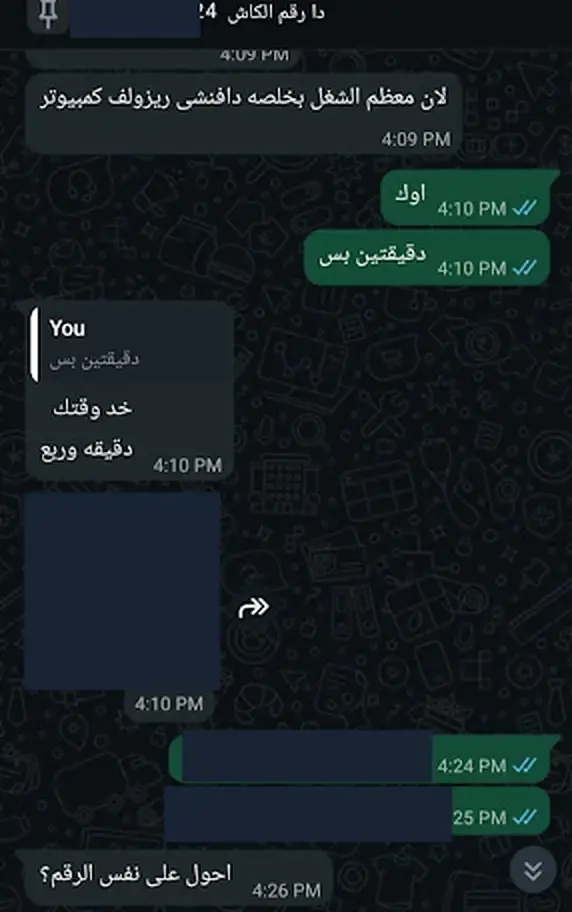
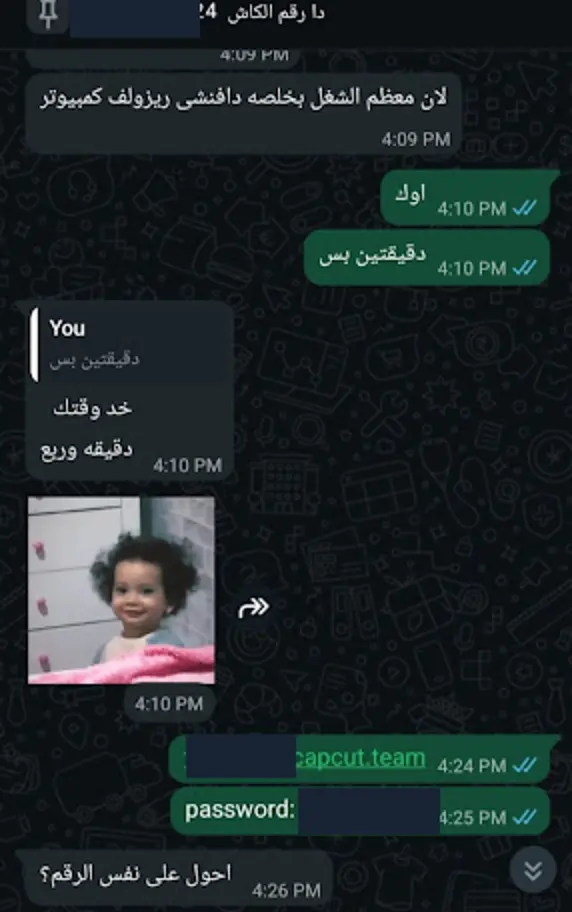
Refresh customer gallery with navy styling and reveal ordinary screenshot content

diff --git a/customer-stories.css b/customer-stories.css
@@ -1,1 +1,1 @@
-.customer-stories{padding:68px max(22px,calc((100% - 1132px)/2));background:linear-gradient(180deg,#f8faff,#edf3ff);border-block:1px solid #e3eaf5;overflow:hidden}.customer-stories .section-head{display:grid;grid-template-columns:88px minmax(0,1fr) auto;align-items:center;gap:22px;margin-bottom:18px}.stories-cover{width:88px;height:88px;object-fit:cover;border-radius:20px;box-shadow:0 8px 24px #0d234b20}.customer-stories h2{font-size:30px;line-height:1.5;margin:5px 0 8px;letter-spacing:-.6px}.customer-stories .eyebrow{font-size:11px;color:#245bd3;letter-spacing:.5px}.customer-stories .section-sub{font-size:13px;line-height:1.9;color:#69778d;max-width:620px;margin:0}.stories-controls{display:flex;gap:8px;align-items:center}.stories-controls button,.story-dialog button{font:inherit;cursor:pointer;border:1px solid #dce5f4;border-radius:12px;background:#fff;color:#143365;padding:11px 14px;min-height:44px}.stories-controls [data-stories-toggle]{font-size:11px;min-width:112px}.stories-controls button:hover,.story-dialog button:hover{background:#e9f0ff}.stories-window{position:relative;overflow-x:auto;scrollbar-width:thin;scrollbar-color:#b9cae9 transparent;direction:ltr;padding:24px 8px 32px;overscroll-behavior-x:contain;scroll-behavior:auto;perspective:1400px}.stories-track{display:flex;gap:24px;width:max-content;align-items:center;transform-style:preserve-3d}.story-card{display:block;flex:0 0 296px;width:296px;padding:8px;overflow:hidden;border:1px solid #dce5f4;border-radius:23px;background:#fff;text-align:right;color:#132d50;cursor:pointer;font:inherit;transform:perspective(1300px) rotateY(var(--story-tilt,0deg)) scale(var(--story-scale,1));box-shadow:0 12px 28px -15px #142e5a60;transition:box-shadow .25s,border-color .25s;animation:story-float 6s ease-in-out infinite;animation-delay:var(--float-delay,0s);backface-visibility:hidden}.story-card:hover,.story-card:focus-visible{border-color:#7da4ed;box-shadow:0 18px 30px -12px #153c7955}.story-image{height:440px;border-radius:15px;background:#101b23;display:grid;place-items:center;overflow:hidden}.story-image img{width:100%;height:100%;object-fit:contain;display:block}.story-caption{display:flex;justify-content:space-between;align-items:center;gap:12px;padding:17px 7px 11px;direction:rtl;font-size:12px;line-height:1.65}.story-caption b{font-weight:600}.story-caption small{display:grid;place-items:center;flex-shrink:0;width:38px;height:38px;background:#edf3ff;border-radius:12px;color:#2259ca;font-size:13px}.stories-privacy{font-size:11px;color:#718097;margin:8px 0 0;line-height:1.9;text-align:center}.stories-still .story-card,.story-card:hover,.story-card:focus-visible{animation-play-state:paused}.story-dialog{padding:0;border:1px solid #dbe5f3;border-radius:22px;width:min(680px,calc(100% - 24px));max-height:94dvh;background:#f5f7fb;box-shadow:0 30px 100px #0005}.story-dialog::backdrop{background:#071529e6;backdrop-filter:blur(7px)}.story-dialog-head{position:sticky;top:0;display:flex;justify-content:space-between;align-items:center;padding:12px 18px;background:#fff;z-index:1;gap:12px;border-bottom:1px solid #e5eaf2}.story-dialog-head h3{margin:0;font-size:13px;line-height:1.7}.story-dialog-image{display:block;max-width:calc(100% - 24px);width:auto;max-height:73dvh;height:auto;margin:16px auto;object-fit:contain;border-radius:10px}.story-dialog-foot{display:flex;justify-content:center;gap:12px;padding:8px 14px 16px}.story-dialog-foot button{min-width:110px}.story-dialog p{text-align:center;font-size:10px;color:#6b7c91;padding:0 15px}.stories-controls button:focus-visible,.story-card:focus-visible,.story-dialog button:focus-visible{outline:3px solid #4080ff;outline-offset:3px}@keyframes story-float{0%,100%{translate:0 0}50%{translate:0 -5px}}@media(max-width:700px){.customer-stories{padding:42px 16px}.customer-stories .section-head{grid-template-columns:66px minmax(0,1fr);gap:14px}.stories-cover{width:66px;height:66px;border-radius:16px}.customer-stories h2{font-size:23px;letter-spacing:-.3px}.customer-stories .section-sub{font-size:11px}.stories-controls{grid-column:1/-1;justify-self:end}.story-card{width:min(78vw,310px);flex-basis:min(78vw,310px)}.story-image{height:410px}.stories-track{gap:18px}.stories-window{padding:20px 6px 27px}.story-dialog-image{max-height:70dvh}.story-caption{font-size:11px}}@media(prefers-reduced-motion:reduce){.story-card{animation:none;transform:none;transition:none}}
+.customer-stories{padding:64px max(24px,calc((100% - 1132px)/2));background:#0a1932;color:#fff;overflow:hidden;position:relative}.customer-stories:before{content:"";position:absolute;inset:0;pointer-events:none;background:radial-gradient(ellipse at 85% 0%,#1f55ad38,transparent 60%)}.customer-stories .section-head{position:relative;display:flex;justify-content:space-between;align-items:end;gap:28px;margin-bottom:30px}.customer-stories .eyebrow{display:inline-block;color:#8eb7ff;font-size:11px;font-weight:500;letter-spacing:.5px}.customer-stories h2{font-size:36px;line-height:1.5;color:white;margin:6px 0 8px;letter-spacing:-.8px}.customer-stories .section-sub{font-size:13px;line-height:1.9;color:#aebed6;margin:0}.stories-controls{display:flex;gap:8px;align-items:center;flex-shrink:0}.stories-controls button{font:inherit;cursor:pointer;border:1px solid #395170;border-radius:50%;background:#ffffff08;color:#fff;width:44px;height:44px;padding:0}.stories-controls [data-stories-toggle]{width:auto;border-radius:24px;padding:0 17px;font-size:11px}.stories-controls button:hover{background:#fff;color:#142f55}.stories-window{position:relative;overflow-x:auto;scrollbar-width:thin;scrollbar-color:#49648c transparent;direction:ltr;padding:12px 2px 26px;overscroll-behavior-x:contain;scroll-behavior:auto;perspective:1400px}.stories-track{display:flex;gap:22px;width:max-content;align-items:center;transform-style:preserve-3d}.story-card{display:block;flex:0 0 280px;width:280px;padding:0;overflow:hidden;border:1px solid #ffffff28;border-radius:16px;background:#fff;text-align:right;color:#14243d;cursor:pointer;font:inherit;transform:perspective(1300px) rotateY(var(--story-tilt,0deg)) scale(var(--story-scale,1));box-shadow:0 14px 30px #0003;transition:box-shadow .25s,border-color .25s;animation:story-float 7s ease-in-out infinite;animation-delay:var(--float-delay,0s)}.story-card:hover,.story-card:focus-visible{border-color:#91b7ff;box-shadow:0 14px 36px #0006}.story-image{height:414px;background:#0b131b;display:grid;place-items:center;overflow:hidden;border-bottom:1px solid #e6ebf2}.story-image img{width:100%;height:100%;object-fit:contain;display:block}.story-caption{display:flex;justify-content:space-between;align-items:center;gap:12px;padding:16px;direction:rtl;font-size:12px;line-height:1.65;min-height:74px}.story-caption b{font-weight:600}.story-caption small{display:grid;place-items:center;flex-shrink:0;width:32px;height:32px;background:#edf3fc;border-radius:50%;color:#2259ca;font-size:16px}.stories-privacy{position:relative;font-size:10px;color:#94a8c6;margin:15px 0 0;line-height:1.9}.stories-still .story-card,.story-card:hover,.story-card:focus-visible{animation-play-state:paused}.story-dialog{padding:0;border:0;border-radius:18px;width:min(680px,calc(100% - 20px));max-height:94dvh;background:#eff3f8;box-shadow:0 30px 100px #0008}.story-dialog::backdrop{background:#030b19eb;backdrop-filter:blur(8px)}.story-dialog-head{position:sticky;top:0;display:flex;justify-content:space-between;align-items:center;padding:13px 18px;background:#fff;z-index:1;gap:12px;border-bottom:1px solid #e5eaf2}.story-dialog-head h3{margin:0;font-size:13px;color:#172f54;line-height:1.7}.story-dialog button{font:inherit;cursor:pointer;border:1px solid #d4deed;border-radius:12px;background:#fff;color:#183967;padding:10px 16px;min-height:44px}.story-dialog-image{display:block;max-width:calc(100% - 24px);width:auto;max-height:73dvh;height:auto;margin:16px auto;object-fit:contain;border-radius:8px}.story-dialog-foot{display:flex;justify-content:center;gap:12px;padding:8px 14px 16px}.story-dialog-foot button{min-width:110px}.story-dialog p{text-align:center;font-size:10px;color:#6b7c91;padding:0 15px}.stories-controls button:focus-visible,.story-card:focus-visible,.story-dialog button:focus-visible{outline:3px solid #80b0ff;outline-offset:3px}@keyframes story-float{0%,100%{translate:0 0}50%{translate:0 -4px}}@media(max-width:700px){.customer-stories{padding:40px 18px}.customer-stories .section-head{display:block;margin-bottom:22px}.customer-stories h2{font-size:30px}.customer-stories .section-sub{font-size:12px;max-width:330px}.stories-controls{margin-top:20px;justify-content:flex-start}.story-card{width:76vw;flex-basis:76vw;max-width:310px}.story-image{height:410px}.stories-track{gap:18px}.stories-window{margin-inline:-6px;padding-inline:6px}.story-dialog-image{max-height:70dvh}.story-caption{font-size:11px}}@media(prefers-reduced-motion:reduce){.story-card{animation:none;transform:none;transition:none}}

diff --git a/customer-stories.js b/customer-stories.js
@@ -6,8 +6,8 @@ const captions=['تفعيل اشتراك ومتابعة','تأكيد وصول ا
 const english=['Subscription activation','Payment receipt confirmation','Account handover','Account activation support','Activation confirmation','Personal account activation','A customer’s thank-you','Subscription setup support','Activation and customer feedback','Payment and order follow-up','Google AI activation confirmation','Payment and customer experience','Payment received and service follow-up','Customer comments on Facebook'];
 const reduced=matchMedia('(prefers-reduced-motion: reduce)');let paused=reduced.matches,hover=false,focused=false,visible=false,last=0,active=0,returnFocus=null,raf=0;
 const en=()=>document.documentElement.lang==='en';
-const path=i=>`assets/customer-stories/story-${String(i+1).padStart(2,'0')}.webp?v=20261015-4`;
-function render(){track.replaceChildren();captions.forEach((label,i)=>{const b=document.createElement('button');b.type='button';b.className='story-card';b.dataset.story=i;b.style.setProperty('--float-delay',`${-i*.65}s`);const box=document.createElement('span');box.className='story-image';const im=document.createElement('img');im.src=path(i);im.alt=en()?english[i]:label;im.loading='lazy';im.decoding='async';box.append(im);const caption=document.createElement('span');caption.className='story-caption';const strong=document.createElement('b');strong.textContent=en()?english[i]:label;const hint=document.createElement('small');hint.textContent='↗';hint.setAttribute('aria-hidden','true');b.setAttribute('aria-label',(en()?'Open image: ':'تكبير الصورة: ')+(en()?english[i]:label));caption.append(strong,hint);b.append(box,caption);b.addEventListener('click',()=>open(i,b));track.append(b)});section.querySelector('h2').textContent=en()?'From our customer conversations':'من تعاملاتنا مع العملاء';section.querySelector('.eyebrow').textContent=en()?'CUSTOMER STORIES':'تجارب ومتابعة';section.querySelector('.section-sub').textContent=en()?'Snapshots of activation, delivery and customer feedback. Open any image to see it in full.':'لقطات من التفعيل والتسليم ورسائل العملاء. اضغط على أي صورة لمشاهدة التفاصيل.';section.querySelector('.stories-privacy').textContent=en()?'Personal details, credentials and activation links are hidden to protect privacy.':'حفاظًا على الخصوصية، تم حجب البيانات الشخصية وبيانات الدخول وروابط التفعيل.';toggle.textContent=paused?(en()?'Play':'تشغيل الحركة'):(en()?'Pause':'إيقاف الحركة');toggle.setAttribute('aria-pressed',String(paused));}
+const path=i=>`assets/customer-stories/story-${String(i+1).padStart(2,'0')}.webp?v=20261015-7`;
+function render(){track.replaceChildren();captions.forEach((label,i)=>{const b=document.createElement('button');b.type='button';b.className='story-card';b.dataset.story=i;b.style.setProperty('--float-delay',`${-i*.65}s`);const box=document.createElement('span');box.className='story-image';const im=document.createElement('img');im.src=path(i);im.alt=en()?english[i]:label;im.loading='lazy';im.decoding='async';box.append(im);const caption=document.createElement('span');caption.className='story-caption';const strong=document.createElement('b');strong.textContent=en()?english[i]:label;const hint=document.createElement('small');hint.textContent='↗';hint.setAttribute('aria-hidden','true');b.setAttribute('aria-label',(en()?'Open image: ':'تكبير الصورة: ')+(en()?english[i]:label));caption.append(strong,hint);b.append(box,caption);b.addEventListener('click',()=>open(i,b));track.append(b)});section.querySelector('h2').textContent=en()?'Customer stories':'آراء عملائنا';section.querySelector('.eyebrow').textContent=en()?'FROM OUR CONVERSATIONS':'من محادثاتنا معاكم';section.querySelector('.section-sub').textContent=en()?'Activation, delivery and feedback — in our customers’ own words.':'تفعيل، تسليم، وتجارب بكلام أصحابها. افتح الصورة واقرأ التفاصيل.';section.querySelector('.stories-privacy').textContent=en()?'Personal details, credentials and activation links are hidden to protect privacy.':'حفاظًا على الخصوصية، تم حجب البيانات الشخصية وبيانات الدخول وروابط التفعيل.';toggle.textContent=paused?(en()?'Play':'تشغيل الحركة'):(en()?'Pause':'إيقاف الحركة');toggle.setAttribute('aria-pressed',String(paused));}
 function show(i){active=(i+captions.length)%captions.length;large.src=path(active);large.alt=en()?english[active]:captions[active];title.textContent=`${active+1} / ${captions.length} — ${large.alt}`}
 function open(i,b){returnFocus=b;show(i);dialog.showModal()}
 dialog.querySelector('[data-close]').onclick=()=>dialog.close();dialog.querySelector('[data-prev]').onclick=()=>show(active-1);dialog.querySelector('[data-next]').onclick=()=>show(active+1);dialog.addEventListener('click',e=>{if(e.target===dialog){const r=dialog.getBoundingClientRect();if(e.clientX<r.left||e.clientX>r.right||e.clientY<r.top||e.clientY>r.bottom)dialog.close()}});dialog.addEventListener('close',()=>returnFocus?.focus());dialog.addEventListener('keydown',e=>{if(e.key==='ArrowRight')show(active+1);if(e.key==='ArrowLeft')show(active-1)});

diff --git a/index.html b/index.html
@@ -22,7 +22,7 @@
 <meta property="og:image" content="https://master-pi-six.vercel.app/master-store-logo.png">
 <meta property="og:site_name" content="MASTER STORE">
 <meta name="google-site-verification" content="dvpUjy_77Hw4vOnhyEyLAJ9m2NBAoZ1nUtnLy-ABb0s" />
-<link rel="stylesheet" href="customer-stories.css?v=20261015-6">
+<link rel="stylesheet" href="customer-stories.css?v=20261015-7">
 </head>
 <body>
   <div class="offer-bar">خصومات تصل إلى 90% على عروض مختارة <a href="#products">تصفح العروض</a></div>
@@ -150,7 +150,7 @@
     </section>
 
     <section class="customer-stories" id="customer-stories" aria-labelledby="stories-title">
-      <div class="section-head"><img class="stories-cover" src="assets/customer-stories/reviews-cover.webp" alt="آراء عملائنا — شاركنا رأيك وتجربتك" width="150" height="150" loading="lazy"><div><span class="eyebrow">تجارب ومتابعة</span><h2 id="stories-title">من تعاملاتنا مع العملاء</h2><p class="section-sub">لقطات من التفعيل والتسليم ورسائل العملاء. اضغط على أي صورة لمشاهدة التفاصيل.</p></div><div class="stories-controls"><button type="button" data-stories-prev aria-label="الصور السابقة">→</button><button type="button" data-stories-toggle aria-pressed="false">إيقاف الحركة</button><button type="button" data-stories-next aria-label="الصور التالية">←</button></div></div>
+      <div class="section-head"><div><span class="eyebrow">تجارب ومتابعة</span><h2 id="stories-title">من تعاملاتنا مع العملاء</h2><p class="section-sub">لقطات من التفعيل والتسليم ورسائل العملاء. اضغط على أي صورة لمشاهدة التفاصيل.</p></div><div class="stories-controls"><button type="button" data-stories-prev aria-label="الصور السابقة">→</button><button type="button" data-stories-toggle aria-pressed="false">إيقاف الحركة</button><button type="button" data-stories-next aria-label="الصور التالية">←</button></div></div>
       <div class="stories-window" role="region" aria-label="صور تعاملات العملاء"><div class="stories-track"></div></div>
       <p class="stories-privacy">حفاظًا على الخصوصية، تم حجب البيانات الشخصية وبيانات الدخول وروابط التفعيل.</p>
     </section>
@@ -206,6 +206,6 @@
   <script src="app.js?v=20261012-auth1"></script>
   <a class="support-fab" href="https://wa.me/201500950624" target="_blank" rel="noopener" aria-label="واتساب"><img decoding="async" class="whatsapp-icon" src="logos/whatsapp.svg?v=20261009-logo-review3" alt=""></a>
 <script src="seo.js?v=20261009-search"></script>
-<script src="customer-stories.js?v=20261015-6" defer></script>
+<script src="customer-stories.js?v=20261015-7" defer></script>
 </body>
 </html>
